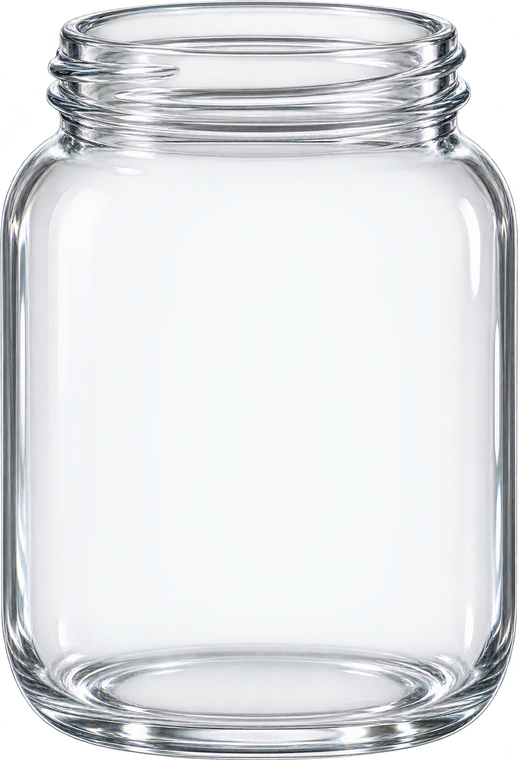
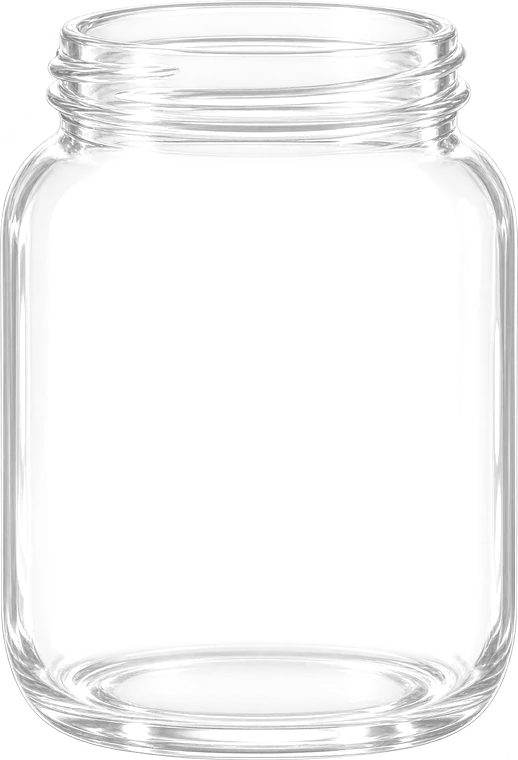
Clear jar: match TikFinity tone — neutral white-grey glass, fully clear interior shaped to the jar, light-grey floor + white mouth behind gifts

Changed region(s): [[0.0, 0.0, 1.0, 1.0]]

diff --git a/packages/overlay/public/giftjar.html b/packages/overlay/public/giftjar.html
@@ -96,7 +96,7 @@
         prof: [[-312, 88], [-300, 96], [-292, 104], [-285, 110], [-276, 114], [-266, 116], [-58, 116], [-46, 110], [-36, 98]],
         hw: (y) => profileHW(SHAPES.clear.prof, y),
         openY: -312, openHW: 88, rimHW: 98, topY: -380, fullY: -282, maxHW: 116, floor: -36, backA: 0.18, noClear: true, noShadow: true, px: 0.75, center: true,
-        image: { src: 'themes/jar-clear.webp', x: -129.6, y: -380.0, w: 259.2, h: 380.0 },
+        image: { src: 'themes/jar-clear.webp', back: 'themes/jar-clear-back.webp', x: -129.6, y: -380.0, w: 259.2, h: 380.0 },
       },
       bowl: { // โหลทรงกลมป่อง ปากกว้าง (โหลปลา)
         hw: (y) => 170 * Math.sqrt(Math.max(0, 1 - ((y + 140) / 150) ** 2)),
